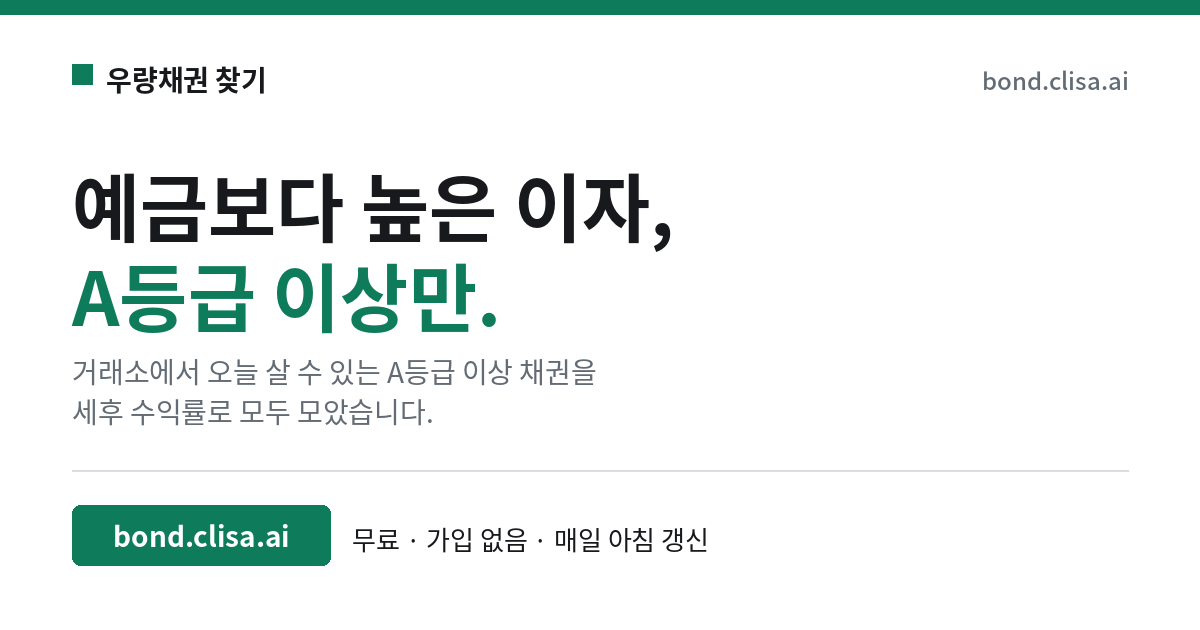
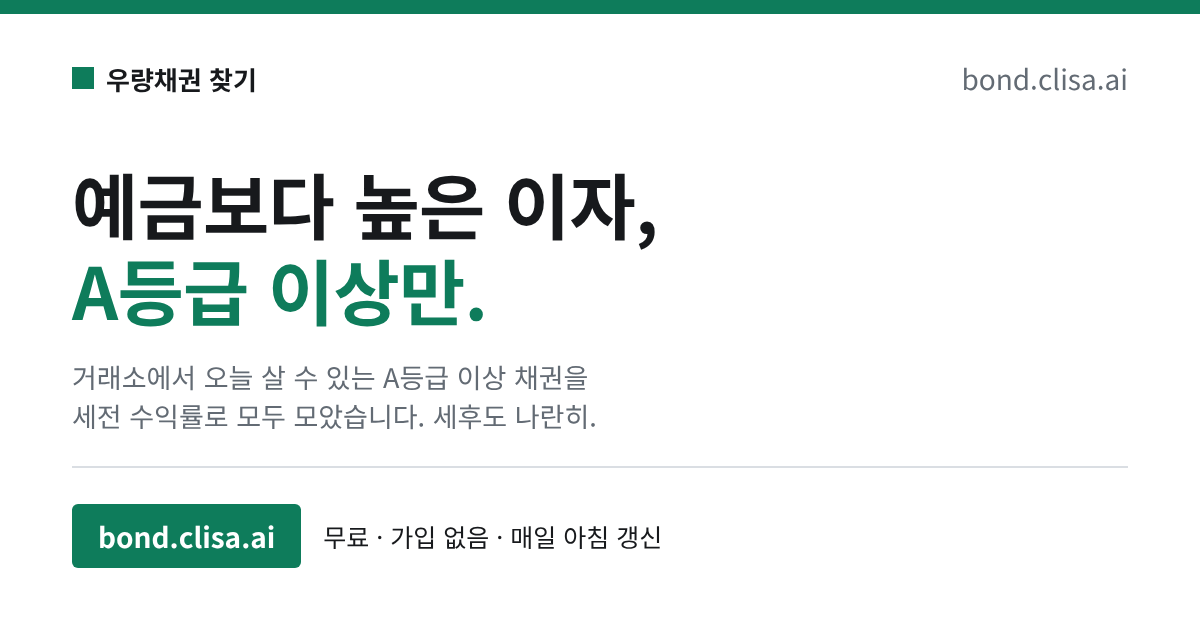
채권 페이지도 세전을 기준으로: 큰 숫자·첫 열·기본 정렬은 세전, 세후는 옆에
예금·적금 페이지와 같은 방식. 받는 돈 계산기는 실제 수령액이라 세후 그대로. 카톡 카드 문구도 수정

Claude-Session: https://claude.ai/code/session_01Scji39tdkA7BEhXGi6nn83

diff --git a/docs/index.html b/docs/index.html
@@ -1,10 +1,10 @@
 <!doctype html><html lang="ko" data-theme="dark"><head><meta charset="utf-8"><meta name="viewport" content="width=device-width,initial-scale=1"><meta name="theme-color" content="#121416">
 <title>우량채권 찾기</title>
-<meta name="description" content="예금보다 높은 이자, A등급 이상만. 거래소에서 오늘 살 수 있는 A등급 이상 채권을 세후 수익률로 모두 모았습니다.">
+<meta name="description" content="예금보다 높은 이자, A등급 이상만. 거래소에서 오늘 살 수 있는 A등급 이상 채권을 세전 수익률로 모두 모았습니다. 세후도 나란히.">
 <meta property="og:type" content="website">
 <meta property="og:site_name" content="우량채권 찾기">
 <meta property="og:title" content="우량채권 찾기 — 예금보다 높은 이자, A등급 이상만.">
-<meta property="og:description" content="거래소에서 오늘 살 수 있는 A등급 이상 채권을 세후 수익률로 모두 모았습니다. 무료 · 가입 없음 · 매일 아침 갱신">
+<meta property="og:description" content="거래소에서 오늘 살 수 있는 A등급 이상 채권을 세전 수익률로 모두 모았습니다. 세후도 나란히. 무료 · 가입 없음 · 매일 아침 갱신">
 <meta property="og:url" content="https://bond.clisa.ai/">
 <meta property="og:image" content="https://bond.clisa.ai/og.png">
 <meta property="og:image:width" content="1200">
@@ -154,7 +154,7 @@ button.copy:focus-visible,tbody tr:focus-visible,select:focus-visible,.hero .c:f
 </head><body>
 <div class="bar"><div class="in">
   <span class="name">우량채권 찾기</span><span class="date" id="basdt"></span><span class="btns"><a class="go" href="/deposit/">예금·적금 금리 →</a><a class="go" href="#tax">세금 계산 방법</a><a class="go" href="#caution">유의 사항</a><a class="go" href="#source">자료 출처</a></span>
-  <span class="what"><b>예금보다 높은 이자, A등급 이상만.</b> 거래소에서 오늘 살 수 있는 A등급 이상 채권을 세후 수익률로 모두 모았습니다. 어느 증권사 앱에서든 종목코드로 살 수 있는 채권만 담았습니다.</span>
+  <span class="what"><b>예금보다 높은 이자, A등급 이상만.</b> 거래소에서 오늘 살 수 있는 A등급 이상 채권을 세전 수익률로 모두 모았습니다. 세후도 나란히. 어느 증권사 앱에서든 종목코드로 살 수 있는 채권만 담았습니다.</span>
 </div></div>
 <div class="wrap">
 
@@ -163,24 +163,24 @@ button.copy:focus-visible,tbody tr:focus-visible,select:focus-visible,.hero .c:f
 <h2>오늘의 요약<small>선순위 채권 중 최근 5영업일 거래대금 1천만 원 이상인 종목 기준 · '거래 활발'은 1억 원 이상</small></h2>
 <div class="hero" id="hero"></div>
 
-<h2>원리금 받는 시기별 최고 세후 수익률<small>신용등급 A 이상 선순위 · 누르면 상세 정보가 열립니다</small></h2>
+<h2>원리금 받는 시기별 최고 세전 수익률<small>신용등급 A 이상 선순위 · 누르면 상세 정보가 열립니다</small></h2>
 <div class="ladder" id="ladder"></div>
 
 <div class="pick" id="pick">
   <label>신용등급 <select id="fR"><option value="1">AAA 이상</option><option value="3">AA 이상 (AA- 포함)</option><option value="7" selected>A 이상 (A- 포함)</option><option value="99">전체</option></select></label>
-  <label>세후 수익률 <select id="fY"><option value="0">전체</option><option value="3">3% 이상</option><option value="4" selected>4% 이상</option><option value="5">5% 이상</option></select></label>
+  <label>세전 수익률 <select id="fY"><option value="0">전체</option><option value="3">3% 이상</option><option value="4" selected>4% 이상</option><option value="5">5% 이상</option></select></label>
   <label class="mdate">돈 돌려받아야 하는 날 <span class="row"><input type="month" id="fM"><button type="button" class="x" id="fMx" title="지우기">×</button></span></label>
   <button class="tog" id="tog" type="button">조건 더 보기</button>
   <div class="more">
   <label>종류 <select id="fC"><option value="senior" selected>선순위만</option><option value="">전체 (후순위·신종 포함)</option><option>국채</option><option>지방채</option><option>특수채</option><option>금융채</option><option>일반회사채</option><option>후순위채</option><option>신종·조건부자본증권</option></select></label>
   <label>남은 기간 <select id="fT"><option value="">전체</option><option value="1">1년 이내</option><option value="3">3년 이내</option><option value="5">5년 이내</option><option value="10">10년 이내</option><option value="fixed">만기 있는 것만</option></select></label>
-  <label>정렬 <select id="fS"><option value="grade" selected>등급 높은 순 → 세후 높은 순</option><option value="after_tax">세후 수익률 높은 순</option><option value="ytm">세전 수익률 높은 순</option><option value="years">남은 기간 짧은 순</option><option value="amt">거래대금 많은 순</option></select></label>
+  <label>정렬 <select id="fS"><option value="grade" selected>등급 높은 순 → 세전 높은 순</option><option value="ytm">세전 수익률 높은 순</option><option value="after_tax">세후 수익률 높은 순</option><option value="years">남은 기간 짧은 순</option><option value="amt">거래대금 많은 순</option></select></label>
   </div>
 </div>
 <div class="sum" id="sum"></div>
 
   <div class="tbl"><table>
-    <thead><tr><th>등급</th><th>종목</th><th>종류</th><th class="n">세후 수익률</th><th class="n">세전 수익률</th><th class="n">표면금리</th><th>원리금 받는 날</th><th class="n">남은 기간</th><th>이자 지급</th><th>거래</th></tr></thead>
+    <thead><tr><th>등급</th><th>종목</th><th>종류</th><th class="n">세전 수익률</th><th class="n">세후 수익률</th><th class="n">표면금리</th><th>원리금 받는 날</th><th class="n">남은 기간</th><th>이자 지급</th><th>거래</th></tr></thead>
     <tbody id="rows"></tbody>
   </table></div>
   </div>
@@ -190,7 +190,7 @@ button.copy:focus-visible,tbody tr:focus-visible,select:focus-visible,.hero .c:f
 
 <div class="note" id="note">
   <h4 id="tax">세금 계산 방법</h4>
-  증권사 화면의 수익률은 세전입니다. 이 표의 세후 수익률은 <span class="mono">세전 수익률 − 표면금리 × 15.4%</span>로 계산한 근사치입니다. 개인은 채권의 이자(표면금리 부분)에만 15.4%의 세금이 붙고 매매차익은 과세되지 않는다는 점을 반영했습니다. 그래서 같은 세전 수익률이면 표면금리가 낮은 채권이 세후로는 유리합니다. 다만 보유 기간에 따른 이자 계산, 금융소득종합과세(연 2천만 원 초과), 복리채의 과세 방식 등은 반영하지 않았으므로 실제 세후 수익과 다를 수 있습니다. 종목 상세의 '받는 돈' 계산은 세후 수익률에 남은 기간을 곱한 단리 근사이며, 실제 수령액은 매수 가격과 이자 지급 시기에 따라 다릅니다.
+  이 표의 세전 수익률은 증권사 화면의 수익률과 같습니다. 세후 수익률은 <span class="mono">세전 수익률 − 표면금리 × 15.4%</span>로 계산한 근사치입니다. 개인은 채권의 이자(표면금리 부분)에만 15.4%의 세금이 붙고 매매차익은 과세되지 않는다는 점을 반영했습니다. 그래서 같은 세전 수익률이면 표면금리가 낮은 채권이 세후로는 유리합니다. 다만 보유 기간에 따른 이자 계산, 금융소득종합과세(연 2천만 원 초과), 복리채의 과세 방식 등은 반영하지 않았으므로 실제 세후 수익과 다를 수 있습니다. 종목 상세의 '받는 돈' 계산은 세후 수익률에 남은 기간을 곱한 단리 근사이며, 실제 수령액은 매수 가격과 이자 지급 시기에 따라 다릅니다.
   <h4 id="caution">유의 사항</h4>
   채권은 예금자 보호 대상이 아니며, 발행사가 부도나면 원금을 잃을 수 있습니다. 만기 전에 팔면 그때의 시장 가격에 따라 손실이 날 수 있고, 장내 거래량이 적은 종목은 원하는 때에 팔지 못할 수 있습니다. 후순위채와 신종·조건부자본증권(표에서 보라색 점선으로 표시)은 발행사의 재무 상태가 나빠지면 이자가 지급되지 않거나 원금이 줄어드는 조건이 붙어 있고, 만기보다 발행사의 조기상환(콜) 시점이 실제 회수 시점이 되는 경우가 많습니다. 이런 종목은 매수 전에 투자설명서의 조건을 읽어야 합니다. 이 표의 수익률은 거래된 날의 종가 기준이며 지금 호가와 다를 수 있습니다. 거래가 아주 적은 날의 체결가는 시세와 동떨어질 수 있으므로, 거래대금이 적은 종목은 상세의 '거래' 표시를 확인하십시오.
   <h4 id="rating">신용등급</h4>
@@ -223,23 +223,23 @@ document.getElementById('basdt').textContent=d8(BASDT)+' 거래 기준';
 const $=id=>document.getElementById(id); let cur=-1, lim=40;
 const DATA2=DATA; const ALL=DATA.map((r,i)=>({...r,i}));
 const POOL=ALL.filter(r=>!hybrid(r)&&!r.perp&&r.amt>=1e7&&gi(r)<=7);
-const best=a=>a.length?a.reduce((m,r)=>r.after_tax>m.after_tax?r:m):null;
-const HERO=[['AAA·국채 중 세후 수익률 최고',best(POOL.filter(r=>gi(r)<=1))],['A 이상 중 세후 수익률 최고',best(POOL)],['거래 활발한 종목 중 세후 수익률 최고',best(POOL.filter(r=>r.amt>=1e8))]];
+const best=a=>a.length?a.reduce((m,r)=>r.ytm>m.ytm?r:m):null;
+const HERO=[['AAA·국채 중 세전 수익률 최고',best(POOL.filter(r=>gi(r)<=1))],['A 이상 중 세전 수익률 최고',best(POOL)],['거래 활발한 종목 중 세전 수익률 최고',best(POOL.filter(r=>r.amt>=1e8))]];
 const BUCKETS=[['1년 이내',0,1],['1~2년',1,2],['2~3년',2,3],['3~5년',3,5],['5년 초과',5,99]];
 const LAD=BUCKETS.map(([b,lo,hi])=>[b,best(POOL.filter(r=>r.years>lo&&r.years<=hi))]);
 function heroHtml(){
- $('hero').innerHTML=HERO.map(([l,r])=>r?`<div class="c ${r.i===cur?'on':''}" data-i="${r.i}" tabindex="0"><div class="l">${l}</div><div class="v">${r.after_tax.toFixed(2)}<small>% 세후</small></div><div class="n">${chip(r)} ${r.name}</div><div class="m">세전 ${r.ytm.toFixed(2)}% · 원리금 ${d8(r.maturity)} · ${left(r)} 남음</div></div>`:`<div class="c"><div class="l">${l}</div><div class="v" style="color:var(--muted);font-size:16px">해당 종목 없음</div></div>`).join('');
- const top=Math.max(...LAD.map(([,r])=>r?r.after_tax:0));
- $('ladder').innerHTML=LAD.map(([b,r])=>r?`<div class="s ${r.after_tax===top?'best':''} ${r.i===cur?'on':''}" data-i="${r.i}" tabindex="0"><div class="b">${b}</div><div class="v">${r.after_tax.toFixed(2)}%<small> 세후</small></div><div class="n">${chip(r)}${r.name}</div><div class="b">세전 ${r.ytm.toFixed(2)}%</div></div>`:`<div class="s none"><div class="b">${b}</div><div class="v">해당 없음</div></div>`).join('');
+ $('hero').innerHTML=HERO.map(([l,r])=>r?`<div class="c ${r.i===cur?'on':''}" data-i="${r.i}" tabindex="0"><div class="l">${l}</div><div class="v">${r.ytm.toFixed(2)}<small>% 세전</small></div><div class="n">${chip(r)} ${r.name}</div><div class="m">세후 ${r.after_tax.toFixed(2)}% · 원리금 ${d8(r.maturity)} · ${left(r)} 남음</div></div>`:`<div class="c"><div class="l">${l}</div><div class="v" style="color:var(--muted);font-size:16px">해당 종목 없음</div></div>`).join('');
+ const top=Math.max(...LAD.map(([,r])=>r?r.ytm:0));
+ $('ladder').innerHTML=LAD.map(([b,r])=>r?`<div class="s ${r.ytm===top?'best':''} ${r.i===cur?'on':''}" data-i="${r.i}" tabindex="0"><div class="b">${b}</div><div class="v">${r.ytm.toFixed(2)}%<small> 세전</small></div><div class="n">${chip(r)}${r.name}</div><div class="b">세후 ${r.after_tax.toFixed(2)}%</div></div>`:`<div class="s none"><div class="b">${b}</div><div class="v">해당 없음</div></div>`).join('');
 }
 function monthEnd(v){ if(!v) return ''; const [y,m]=v.split('-').map(Number); const d=new Date(y,m,0); return `${y}${String(m).padStart(2,'0')}${String(d.getDate()).padStart(2,'0')}`; }
 function render(){ const R=+$('fR').value,Y=+$('fY').value,T=$('fT').value,Cc=$('fC').value,S=$('fS').value,Dd='5',M=monthEnd($('fM').value);
- let rows=ALL.filter(r=>(Dd==='5'||r.trade_dt===BASDT)&&gi(r)<=R&&r.after_tax>=Y&&(Cc==='senior'?!hybrid(r):(!Cc||r.cls===Cc))&&(!T||(T==='fixed'?!r.perp:(!r.perp&&r.years<=+T)))&&(!M||(!r.perp&&r.maturity<=M)));
- rows.sort((a,b)=>S==='grade'?(gi(a)-gi(b))||(b.after_tax-a.after_tax):S==='years'?(a.perp?99:a.years)-(b.perp?99:b.years):b[S]-a[S]);
- const hy=rows.filter(hybrid).length, mx=Math.max(...rows.map(r=>r.after_tax),1);
+ let rows=ALL.filter(r=>(Dd==='5'||r.trade_dt===BASDT)&&gi(r)<=R&&r.ytm>=Y&&(Cc==='senior'?!hybrid(r):(!Cc||r.cls===Cc))&&(!T||(T==='fixed'?!r.perp:(!r.perp&&r.years<=+T)))&&(!M||(!r.perp&&r.maturity<=M)));
+ rows.sort((a,b)=>S==='grade'?(gi(a)-gi(b))||(b.ytm-a.ytm):S==='years'?(a.perp?99:a.years)-(b.perp?99:b.years):b[S]-a[S]);
+ const hy=rows.filter(hybrid).length, mx=Math.max(...rows.map(r=>r.ytm),1);
  $('sum').innerHTML=`<span>조건에 맞는 종목 <b>${rows.length}</b></span><span>${Dd==='5'?'최근 5영업일 거래 종목':'최근 거래일 거래 종목'} <b>${Dd==='5'?DATA.length:DATA.filter(r=>r.trade_dt===BASDT).length}</b></span><span>국고채 2~4년 세전 <b>${KTB.toFixed(2)}%</b></span>`+(hy?`<span>이 중 후순위·신종 <b>${hy}</b> (유의 사항 확인)</span>`:'');
  const shown=rows.length>lim+15?rows.slice(0,lim):rows;
- $('rows').innerHTML=rows.length?shown.map(r=>`<tr data-i="${r.i}" tabindex="0" class="${r.i===cur?'on':''}"><td class="c1">${chip(r)}</td><td class="c2">${r.name}</td><td class="c3"><span class="tag ${hybrid(r)?'alert':''}">${r.cls}</span></td><td class="n c4"><span class="yb"><i style="width:${(r.after_tax/mx*100).toFixed(0)}%"></i><b>${r.after_tax.toFixed(2)}%</b></span><span class="lf sub">세후 · 세전 ${r.ytm.toFixed(2)}%</span></td><td class="n c5">${r.ytm.toFixed(2)}%</td><td class="n c6">${r.coupon.toFixed(2)}%</td><td class="c7">${r.perp?'영구(콜)':d8(r.maturity)}<span class="lf">· ${left(r)}</span></td><td class="n c8">${left(r)}</td><td class="c9">${r.int_type==='이표채'?r.int_cycle+'마다':r.int_type||'-'}</td><td class="c10"><span class="tag">${liq(r)[0]}</span></td></tr>`).join('')+(shown.length<rows.length?`<tr class="morerow"><td colspan="10"><button class="copy" id="more" type="button">나머지 ${rows.length-shown.length}개 보기</button></td></tr>`:''):`<tr><td colspan="10" class="empty">조건에 맞는 종목이 없습니다. 등급·수익률 조건을 넓히거나 '돈 돌려받아야 하는 날'을 늦춰 보십시오.</td></tr>`;
+ $('rows').innerHTML=rows.length?shown.map(r=>`<tr data-i="${r.i}" tabindex="0" class="${r.i===cur?'on':''}"><td class="c1">${chip(r)}</td><td class="c2">${r.name}</td><td class="c3"><span class="tag ${hybrid(r)?'alert':''}">${r.cls}</span></td><td class="n c4"><span class="yb"><i style="width:${(r.ytm/mx*100).toFixed(0)}%"></i><b>${r.ytm.toFixed(2)}%</b></span><span class="lf sub">세전 · 세후 ${r.after_tax.toFixed(2)}%</span></td><td class="n c5">${r.after_tax.toFixed(2)}%</td><td class="n c6">${r.coupon.toFixed(2)}%</td><td class="c7">${r.perp?'영구(콜)':d8(r.maturity)}<span class="lf">· ${left(r)}</span></td><td class="n c8">${left(r)}</td><td class="c9">${r.int_type==='이표채'?r.int_cycle+'마다':r.int_type||'-'}</td><td class="c10"><span class="tag">${liq(r)[0]}</span></td></tr>`).join('')+(shown.length<rows.length?`<tr class="morerow"><td colspan="10"><button class="copy" id="more" type="button">나머지 ${rows.length-shown.length}개 보기</button></td></tr>`:''):`<tr><td colspan="10" class="empty">조건에 맞는 종목이 없습니다. 등급·수익률 조건을 넓히거나 '돈 돌려받아야 하는 날'을 늦춰 보십시오.</td></tr>`;
  const mb=$('more'); if(mb) mb.addEventListener('click',e=>{e.stopPropagation(); lim=1e9; render();});
  return rows;
 }
@@ -252,7 +252,7 @@ function copyText(txt){ return (navigator.clipboard?.writeText(txt)||Promise.rej
 function flash(btn,msg){ const t=btn.dataset.t||(btn.dataset.t=btn.textContent); btn.textContent=msg; clearTimeout(btn._f); btn._f=setTimeout(()=>btn.textContent=t,2200); }
 function copy(txt,btn){ copyText(txt).then(()=>flash(btn,'복사됨')).catch(()=>flash(btn,'복사 실패 — 길게 눌러 복사')); }
 function calcOut(r){ const v=Math.max(0,+$('amt').value||0)*1e4; const y=r.perp?1:r.years; const g=v*r.after_tax/100*y; if(r.perp){ $('calcTotal').textContent=manwon(g); $('calcLbl').textContent='1년마다 받는 세후 이자 (원금은 콜 때 돌려받음)'; } else { $('calcTotal').textContent=manwon(v+g); $('calcLbl').textContent=`${d8(r.maturity)}까지 받는 돈 · 원금 ${manwon(v)} + 세후 이자 ${manwon(g)}`; } document.querySelectorAll('.quick button').forEach(b=>b.classList.toggle('on',+b.dataset.v===+$('amt').value)); }
-function shareText(r){ return `${r.name} · ${r.rating} · 세후 ${r.after_tax.toFixed(2)}% (세전 ${r.ytm.toFixed(2)}%) · ${r.perp?'영구(콜)':d8(r.maturity)+' 원리금'} — 우량채권 찾기 https://bond.clisa.ai/#${r.isin}`; }
+function shareText(r){ return `${r.name} · ${r.rating} · 세전 ${r.ytm.toFixed(2)}% (세후 ${r.after_tax.toFixed(2)}%) · ${r.perp?'영구(콜)':d8(r.maturity)+' 원리금'} — 우량채권 찾기 https://bond.clisa.ai/#${r.isin}`; }
 function share(r,btn){ const t=shareText(r), url='https://bond.clisa.ai/#'+r.isin, mobile=matchMedia('(pointer:coarse)').matches&&window.innerWidth<=760;
  if(mobile&&navigator.share){ navigator.share({title:'우량채권 찾기',text:t.replace(' '+url,''),url}).then(()=>flash(btn,'공유됨')).catch(e=>{ if(e&&e.name==='AbortError') return; copyText(t).then(()=>flash(btn,'복사됨 — 카톡 등에 붙여 넣으세요')).catch(()=>flash(btn,'복사 실패')); }); }
  else copyText(t).then(()=>flash(btn,'복사됨 — 카톡·메일에 붙여 넣으세요')).catch(()=>flash(btn,'복사 실패')); }
@@ -269,6 +269,7 @@ function show(i,scroll){ cur=i; const r=DATA[i]; history.replaceState(null,'','#
  <div class="calcbox"><div class="calc"><input id="amt" type="number" inputmode="numeric" min="0" step="100" value="1000"><span class="unit">만 원을 지금 사면</span></div><div class="quick"><button type="button" data-v="500">500만</button><button type="button" data-v="1000">1,000만</button><button type="button" data-v="3000">3,000만</button><button type="button" data-v="5000">5,000만</button><button type="button" data-v="10000">1억</button></div><div class="total" id="calcTotal"></div><div class="lbl" id="calcLbl"></div><div class="tag">세후 수익률 × 남은 기간의 단리 근사입니다. 매수 가격과 이자 지급 시기에 따라 실제 수령액은 다릅니다.</div></div>
  <div class="act"><button type="button" class="share" id="share">이 채권 공유</button></div>
  <div class="kv"><div>신용등급</div><div>${chip(r)} <span class="tag">${r.rating_src==='공시'?'신용평가사 공시 등급':'발행사 등급 '+r.base_rating+'에서 '+(r.cls==='후순위채'?'1':'2')+'단계 낮춰 추정'}</span></div>
+ <div>세전 수익률</div><div class="mono"><b>${r.ytm.toFixed(3)}%</b> <span class="tag">증권사 화면과 같은 수익률 · ${d8(r.trade_dt)} 종가 기준</span></div>
  <div>세후 수익률</div><div class="mono"><b>${r.after_tax.toFixed(3)}%</b> <span class="tag">세전 ${r.ytm}% − 표면 ${r.coupon}% × 15.4%</span></div>
  <div>체결가</div><div class="mono">액면 10,000원당 ${won(+r.price)}원 <span class="tag">${d8(r.trade_dt)} 종가</span></div>
  <div>거래</div><div>${lq[0]} <span class="tag">${lq[1]}</span></div>
